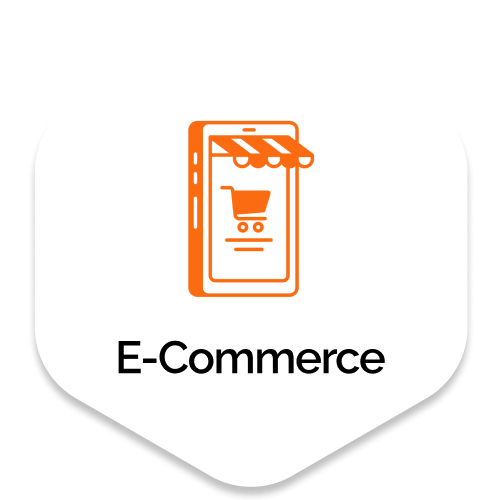
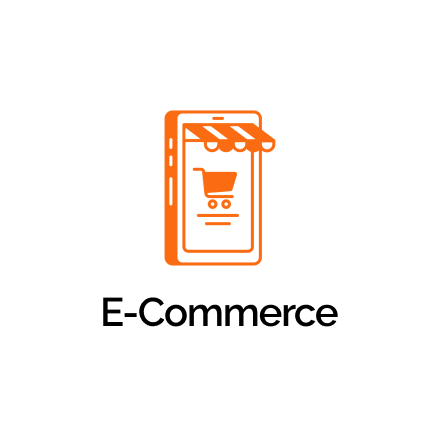
........

diff --git a/public/assets/css/_global.scss b/public/assets/css/_global.scss
@@ -18,13 +18,14 @@
     position: relative;
 }
 .outer-img{
-    top:50px;
-    left: 50px;
+    top:16px;
+    left: 18px;
     cursor: pointer;
+    display: none;
 }
 .inner-img{
-    top:24px;
-    left: 30px;
+    top:16px;
+    left: 18px;
     cursor: pointer;
     display: none;
 }

diff --git a/public/assets/css/style.css b/public/assets/css/style.css
@@ -46,14 +46,15 @@
 }
 
 .outer-img {
-  top: 50px;
-  left: 50px;
+  top: 16px;
+  left: 18px;
   cursor: pointer;
+  display: none;
 }
 
 .inner-img {
-  top: 24px;
-  left: 30px;
+  top: 16px;
+  left: 18px;
   cursor: pointer;
   display: none;
 }

diff --git a/resources/views/pages/home-page.blade.php b/resources/views/pages/home-page.blade.php
@@ -328,94 +328,96 @@
             <div class="py-5 ps-5 mt-5 bg-light-orange multiple-items">
                 <div class="hexagon">
                     <div class="outer-img position-absolute d-flex flex-column align-items-center">
-                        <img src="{{ asset('assets/images/skills/mobile-icon.png') }}" alt="" class="hover-img"
-                            width="70px">
-                        <p class="mb-0 mt-1 fw-bold">E - Commerce</p>
+                        <img src="{{ asset('assets/images/skills/healthcare.png') }}" alt="" class="hover-img"
+                            width="165px">
+                        {{-- <p class="mb-0 mt-1 fw-bold">Healthcare</p> --}}
                     </div>
                     <div class="inner-img position-absolute">
-                        <img src="{{ asset('assets/images/skills/hexa2.png') }}" alt="" class=""
-                            width="140px">
+                        <img src="{{ asset('assets/images/skills/healthcare-active.png') }}" alt="" class=""
+                            width="165px">
                     </div>
                 </div>
                 <div class="hexagon">
                     <div class="outer-img position-absolute d-flex flex-column align-items-center">
-                        <img src="{{ asset('assets/images/skills/mobile-icon.png') }}" alt="" class="hover-img"
-                            width="70px">
-                        <p class="mb-0 mt-1 fw-bold">E - Commerce</p>
+                        <img src="{{ asset('assets/images/skills/e-commerce.png') }}" alt="" class="hover-img"
+                            width="165px">
+                        {{-- <p class="mb-0 mt-1 fw-bold">E-Commerce</p> --}}
                     </div>
                     <div class="inner-img position-absolute">
-                        <img src="{{ asset('assets/images/skills/hexa2.png') }}" alt="" class=""
-                            width="140px">
+                        <img src="{{ asset('assets/images/skills/e-commerce-active.png') }}" alt="" class=""
+                            width="165px">
                     </div>
                 </div>
                 <div class="hexagon">
                     <div class="outer-img position-absolute d-flex flex-column align-items-center">
-                        <img src="{{ asset('assets/images/skills/mobile-icon.png') }}" alt="" class="hover-img"
-                            width="70px">
-                        <p class="mb-0 mt-1 fw-bold">E - Commerce</p>
+                        <img src="{{ asset('assets/images/skills/education.png') }}" alt="" class="hover-img"
+                            width="165px">
+                        {{-- <p class="mb-0 mt-1 fw-bold">Education</p> --}}
                     </div>
                     <div class="inner-img position-absolute">
-                        <img src="{{ asset('assets/images/skills/hexa2.png') }}" alt="" class=""
-                            width="140px">
+                        <img src="{{ asset('assets/images/skills/education-active.png') }}" alt="" class=""
+                            width="165px">
                     </div>
                 </div>
                 <div class="hexagon">
                     <div class="outer-img position-absolute d-flex flex-column align-items-center">
-                        <img src="{{ asset('assets/images/skills/mobile-icon.png') }}" alt="" class="hover-img"
-                            width="70px">
-                        <p class="mb-0 mt-1 fw-bold">E - Commerce</p>
+                        <img src="{{ asset('assets/images/skills/real.png') }}" alt="" class="hover-img"
+                            width="165px">
+                        {{-- <p class="mb-0 mt-1 fw-bold">Real Estate</p> --}}
                     </div>
                     <div class="inner-img position-absolute">
-                        <img src="{{ asset('assets/images/skills/hexa2.png') }}" alt="" class=""
-                            width="140px">
+                        <img src="{{ asset('assets/images/skills/real-active.png') }}" alt="" class=""
+                            width="165px">
                     </div>
                 </div>
                 <div class="hexagon">
                     <div class="outer-img position-absolute d-flex flex-column align-items-center">
-                        <img src="{{ asset('assets/images/skills/mobile-icon.png') }}" alt="" class="hover-img"
-                            width="70px">
-                        <p class="mb-0 mt-1 fw-bold">E - Commerce</p>
+                        <img src="{{ asset('assets/images/skills/social.png') }}" alt="" class="hover-img"
+                            width="165px">
+                        {{-- <p class="mb-0 mt-1 fw-bold">Social Network</p> --}}
                     </div>
                     <div class="inner-img position-absolute">
-                        <img src="{{ asset('assets/images/skills/hexa2.png') }}" alt="" class=""
-                            width="140px">
+                        <img src="{{ asset('assets/images/skills/social-active.png') }}" alt="" class=""
+                            width="165px">
                     </div>
                 </div>
                 <div class="hexagon">
                     <div class="outer-img position-absolute d-flex flex-column align-items-center">
-                        <img src="{{ asset('assets/images/skills/mobile-icon.png') }}" alt="" class="hover-img"
-                            width="70px">
-                        <p class="mb-0 mt-1 fw-bold">E - Commerce</p>
+                        <img src="{{ asset('assets/images/skills/gaming.png') }}" alt="" class="hover-img"
+                            width="165px">
+                        {{-- <p class="mb-0 mt-1 fw-bold">Gaming</p> --}}
                     </div>
                     <div class="inner-img position-absolute">
-                        <img src="{{ asset('assets/images/skills/hexa2.png') }}" alt="" class=""
-                            width="140px">
+                        <img src="{{ asset('assets/images/skills/gaming-active.png') }}" alt="" class=""
+                            width="165px">
                     </div>
                 </div>
                 <div class="hexagon">
                     <div class="outer-img position-absolute d-flex flex-column align-items-center">
-                        <img src="{{ asset('assets/images/skills/mobile-icon.png') }}" alt="" class="hover-img"
-                            width="70px">
-                        <p class="mb-0 mt-1 fw-bold">E - Commerce</p>
+                        <img src="{{ asset('assets/images/skills/travel.png') }}" alt="" class="hover-img"
+                            width="165px">
+                        {{-- <p class="mb-0 mt-1 fw-bold">Travel Tourism</p> --}}
                     </div>
                     <div class="inner-img position-absolute">
-                        <img src="{{ asset('assets/images/skills/hexa2.png') }}" alt="" class=""
-                            width="140px">
+                        <img src="{{ asset('assets/images/skills/travel-active.png') }}" alt="" class=""
+                            width="165px">
                     </div>
                 </div>
                 <div class="hexagon">
                     <div class="outer-img position-absolute d-flex flex-column align-items-center">
-                        <img src="{{ asset('assets/images/skills/mobile-icon.png') }}" alt="" class="hover-img"
-                            width="70px">
-                        <p class="mb-0 mt-1 fw-bold">E - Commerce</p>
+                        <img src="{{ asset('assets/images/skills/solutions.png') }}" alt="" class="hover-img"
+                            width="164px">
+                        {{-- <p class="mb-0 mt-1 fw-bold">Customized Solutions</p> --}}
                     </div>
                     <div class="inner-img position-absolute">
-                        <img src="{{ asset('assets/images/skills/hexa2.png') }}" alt="" class=""
-                            width="140px">
+                        <img src="{{ asset('assets/images/skills/solutions-active.png') }}" alt="" class=""
+                            width="165px">
                     </div>
                 </div>
             </div>
         </div>
+
+
     </section>
     @include('include.script')
     <script src="{{ asset('assets/libraries/js/slick.js') }}"></script>
